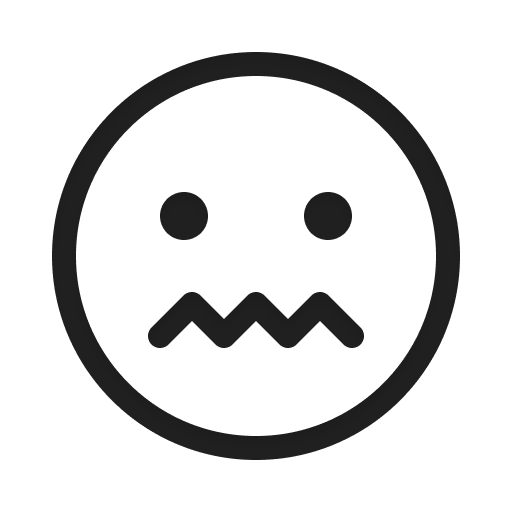
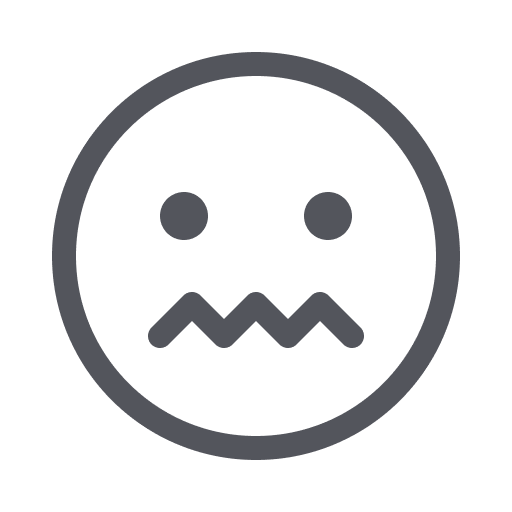
Update dark placeholder assets

diff --git a/src/components/TheNoSelectionColumn.vue b/src/components/TheNoSelectionColumn.vue
@@ -8,7 +8,7 @@
       :src="view.darkColorSchemeIsActive ? placeholderDarkAsset : placeholderAsset"
     />
     <span
-      class="font-serif-heading text-[1.5rem] font-bold text-secondary-color/55 dark:text-[#000]/40"
+      class="font-serif-heading text-[1.5rem] font-bold text-secondary-color/55 dark:text-secondary-color/65"
     >
       No story selected
     </span>

diff --git a/src/components/TheLinkColumnBody.vue b/src/components/TheLinkColumnBody.vue
@@ -8,6 +8,7 @@
         <img
           :src="currentErrorAsset"
           class="size-32"
+          :class="[view.darkColorSchemeIsActive && view.availableColumns === 1 ? 'opacity-80' : '']"
         />
         <div
           class="max-w-[28rem] text-balance px-8 text-center leading-paragraph-narrow text-secondary-color"
